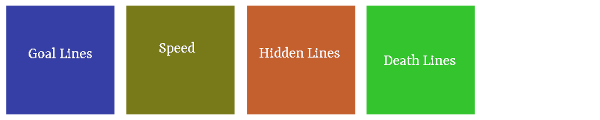
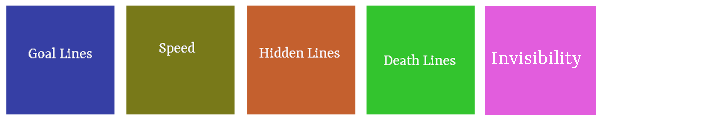
invisible blocks

diff --git a/tetris.go b/tetris.go
@@ -55,6 +55,10 @@ type tetris struct {
 	removeLineAnimationFrame         int
 	removeLineAnimationStep          int
 	removeLineAnimationStepNumFrames int
+	// invisible blocks handling
+	invisibleLevel int
+	invisibleStep  int
+	invisibleFrame int
 }
 
 func (t *tetris) init(level int, balance balancing, speedLevel int) {
@@ -82,6 +86,9 @@ func (t *tetris) init(level int, balance balancing, speedLevel int) {
 	t.removeLineAnimationFrame = 0
 	t.removeLineAnimationStep = 0
 	t.removeLineAnimationStepNumFrames = 8
+	t.invisibleFrame = 0
+	t.invisibleStep = maxLevelInvisibleBlocks
+	t.invisibleLevel = balance.getInvisibleBlocks()
 }
 
 func (t *tetris) setUpNext() (dead bool) {
@@ -93,6 +100,9 @@ func (t *tetris) setUpNext() (dead bool) {
 	t.nextBlock = futureBlock
 
 	t.manualMoveAllowed = false
+
+	t.invisibleFrame = 0
+	t.invisibleStep = maxLevelInvisibleBlocks
 
 	return
 }
@@ -136,6 +146,15 @@ func (t *tetris) update(moveDownRequest, moveLeftRequest, moveRightRequest, rota
 		dead = t.setUpNext()
 
 		return
+	}
+
+	t.invisibleFrame++
+	if t.invisibleFrame >= gInvisibleNumFrames {
+		t.invisibleStep--
+		t.invisibleFrame = 0
+		if t.invisibleStep <= 0 {
+			t.invisibleStep = maxLevelInvisibleBlocks
+		}
 	}
 
 	if rotateLeft && !rotateRight {
@@ -353,7 +372,9 @@ func (t tetris) draw(screen *ebiten.Image, gray uint8) {
 	yOrigin := gSquareSideSize * -gInvisibleLines
 
 	if t.removeLineAnimationStep == 0 {
-		t.currentBlock.draw(screen, gray, xOrigin, yOrigin)
+		if t.invisibleStep > t.invisibleLevel || t.currentBlock.y < gInvisibleLines {
+			t.currentBlock.draw(screen, gray, xOrigin, yOrigin)
+		}
 	}
 
 	for y, line := range t.area {

diff --git a/balancing.go b/balancing.go
@@ -33,14 +33,16 @@ const (
 	balanceSpeed
 	balanceHiddenLines
 	balanceDeathLines
+	balanceInvisibleBlocks
 	numBalances
 )
 
 const (
-	maxLevelGoalLines   = 3
-	maxLevelSpeed       = 5
-	maxLevelHiddenLines = 5
-	maxLevelDeathLines  = 5
+	maxLevelGoalLines       = 3
+	maxLevelSpeed           = 5
+	maxLevelHiddenLines     = 5
+	maxLevelDeathLines      = 5
+	maxLevelInvisibleBlocks = 3
 )
 
 type balancing struct {
@@ -179,6 +181,7 @@ func newBalance(numChoices int) balancing {
 	b.maxLevels[balanceSpeed] = maxLevelSpeed
 	b.maxLevels[balanceHiddenLines] = maxLevelHiddenLines
 	b.maxLevels[balanceDeathLines] = maxLevelDeathLines
+	b.maxLevels[balanceInvisibleBlocks] = maxLevelInvisibleBlocks
 	return b
 }
 
@@ -255,7 +258,7 @@ func (b balancing) getHiddenLines() (numLines int) {
 
 func (b balancing) getGoalLines() int {
 	var goalLines [maxLevelGoalLines + 1]int = [maxLevelGoalLines + 1]int{
-		0, 15, 20, 30,
+		1, 15, 20, 30,
 	}
 
 	if b.levels[balanceGoalLines] < len(goalLines) {
@@ -280,4 +283,8 @@ func (b balancing) getSpeedLevel(baseSpeedLevel int) int {
 	}
 
 	return baseSpeedLevel
+}
+
+func (b balancing) getInvisibleBlocks() int {
+	return b.levels[balanceInvisibleBlocks]
 }

diff --git a/global.go b/global.go
@@ -61,6 +61,8 @@ const (
 	gChoiceSelectionNumFrame int = 30 // number of frames for changing balancing choice
 
 	gSpeedLevels int = 21
+
+	gInvisibleNumFrames int = 60 // num frames for one step of invisibility
 )
 
 var gSpeeds [gSpeedLevels]int = [gSpeedLevels]int{
